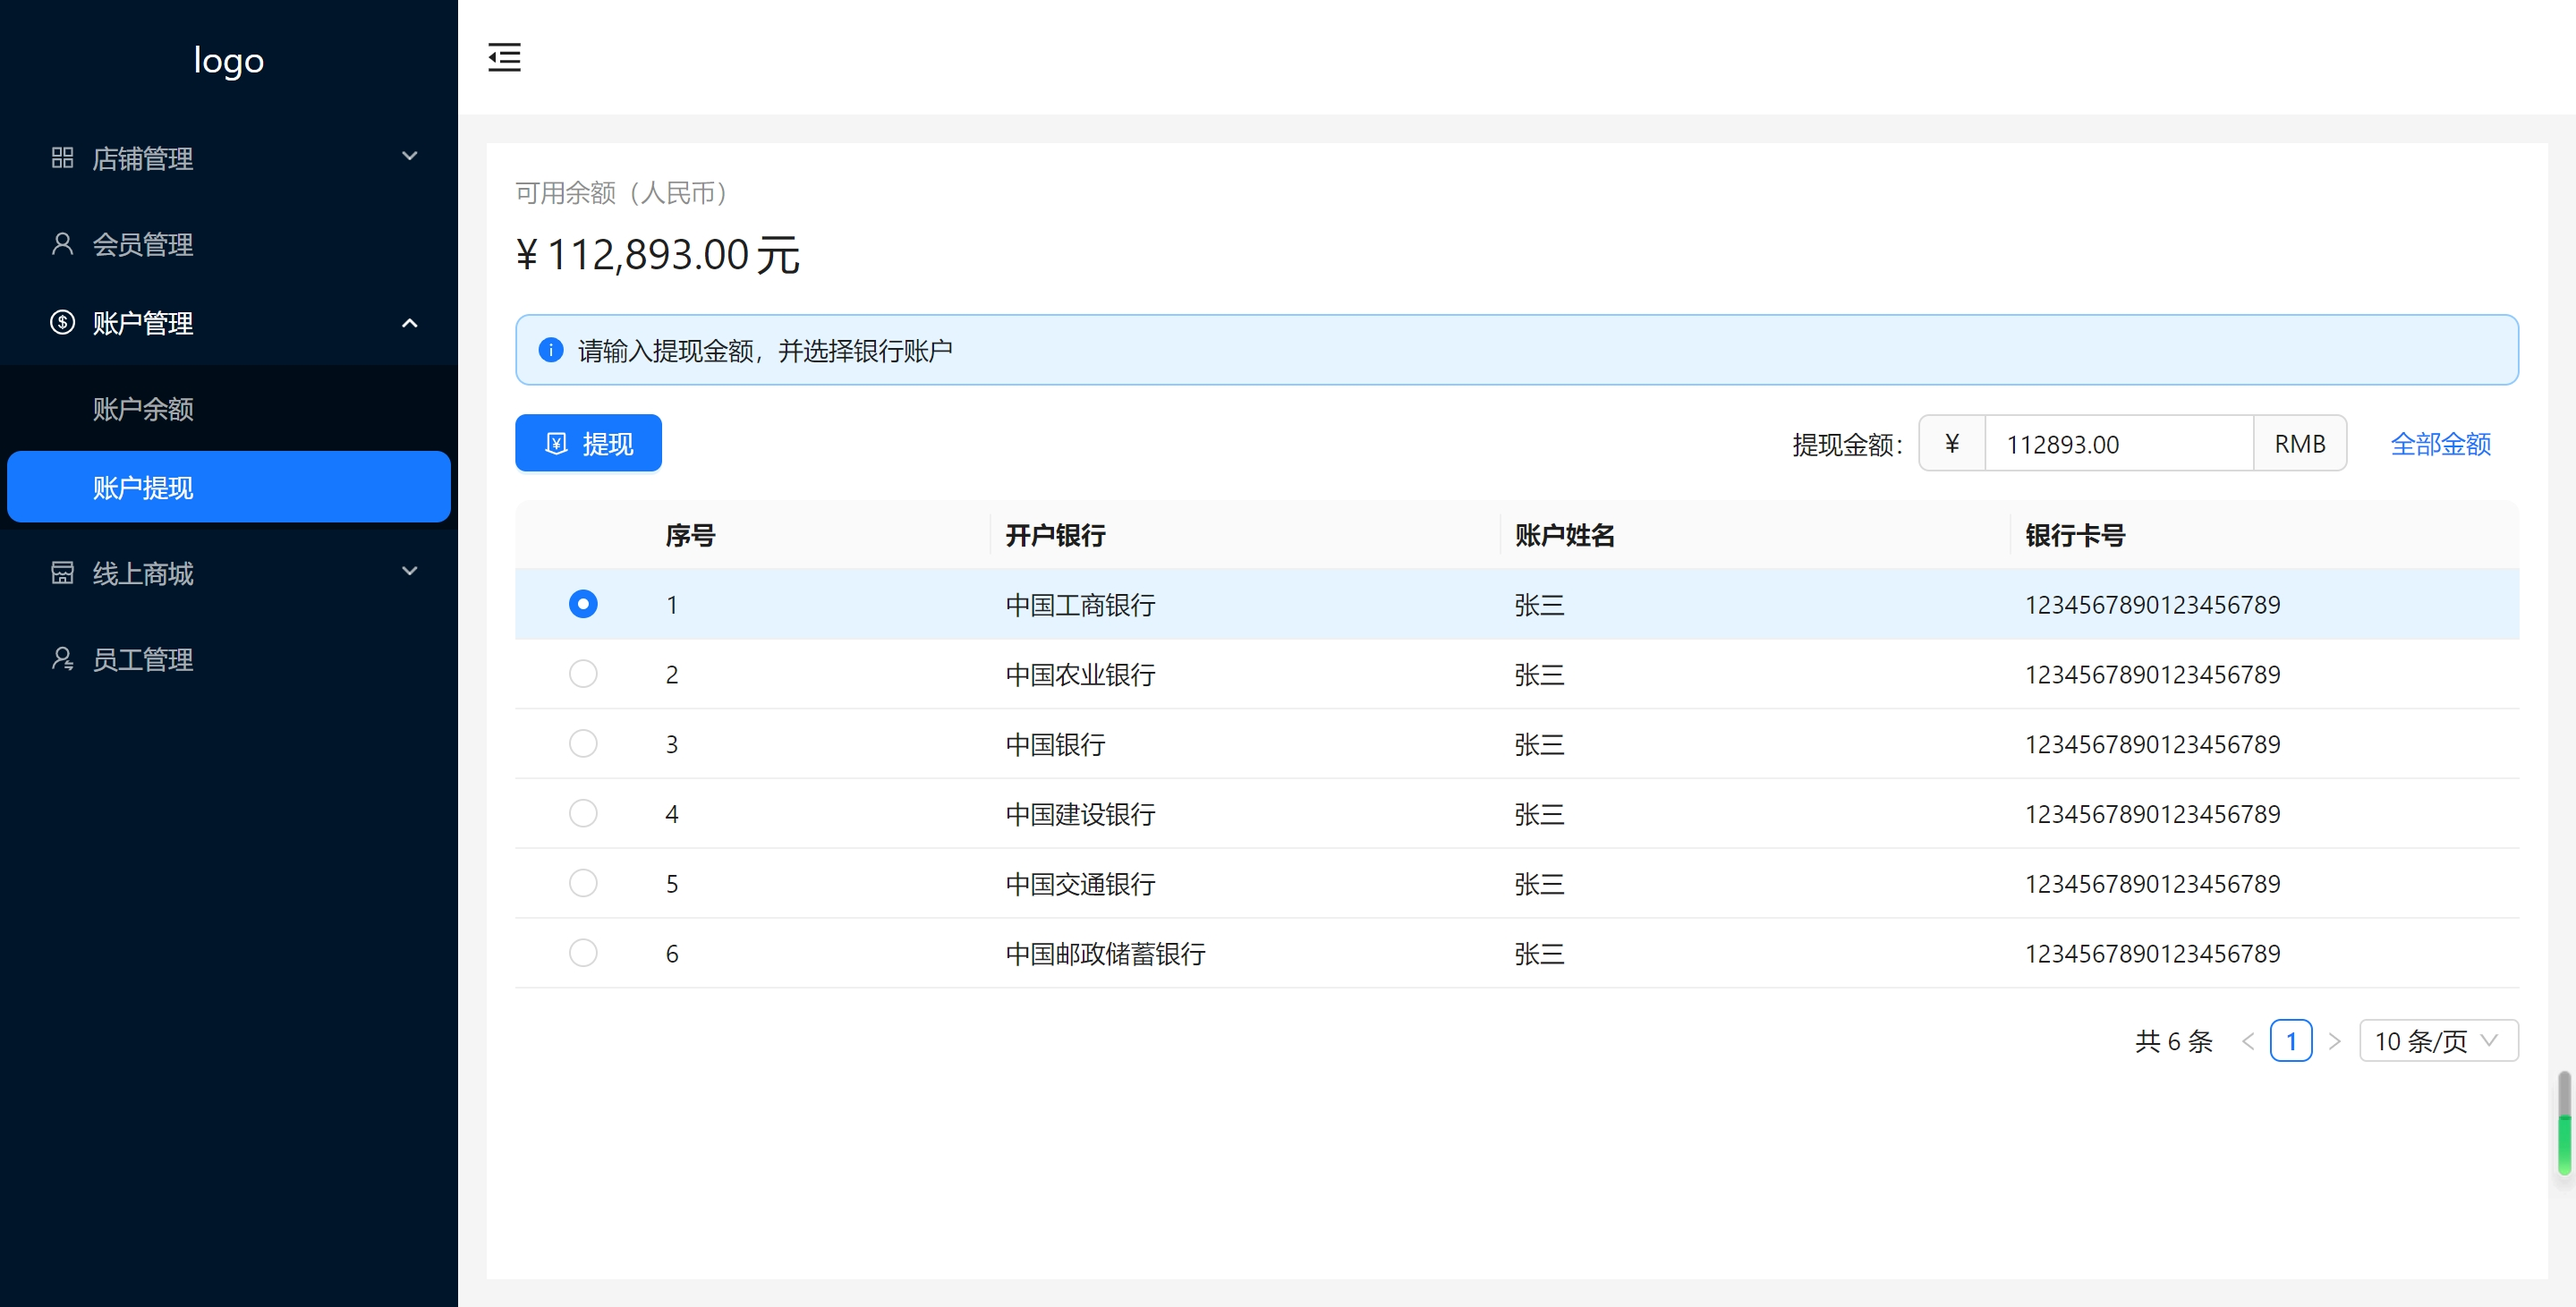
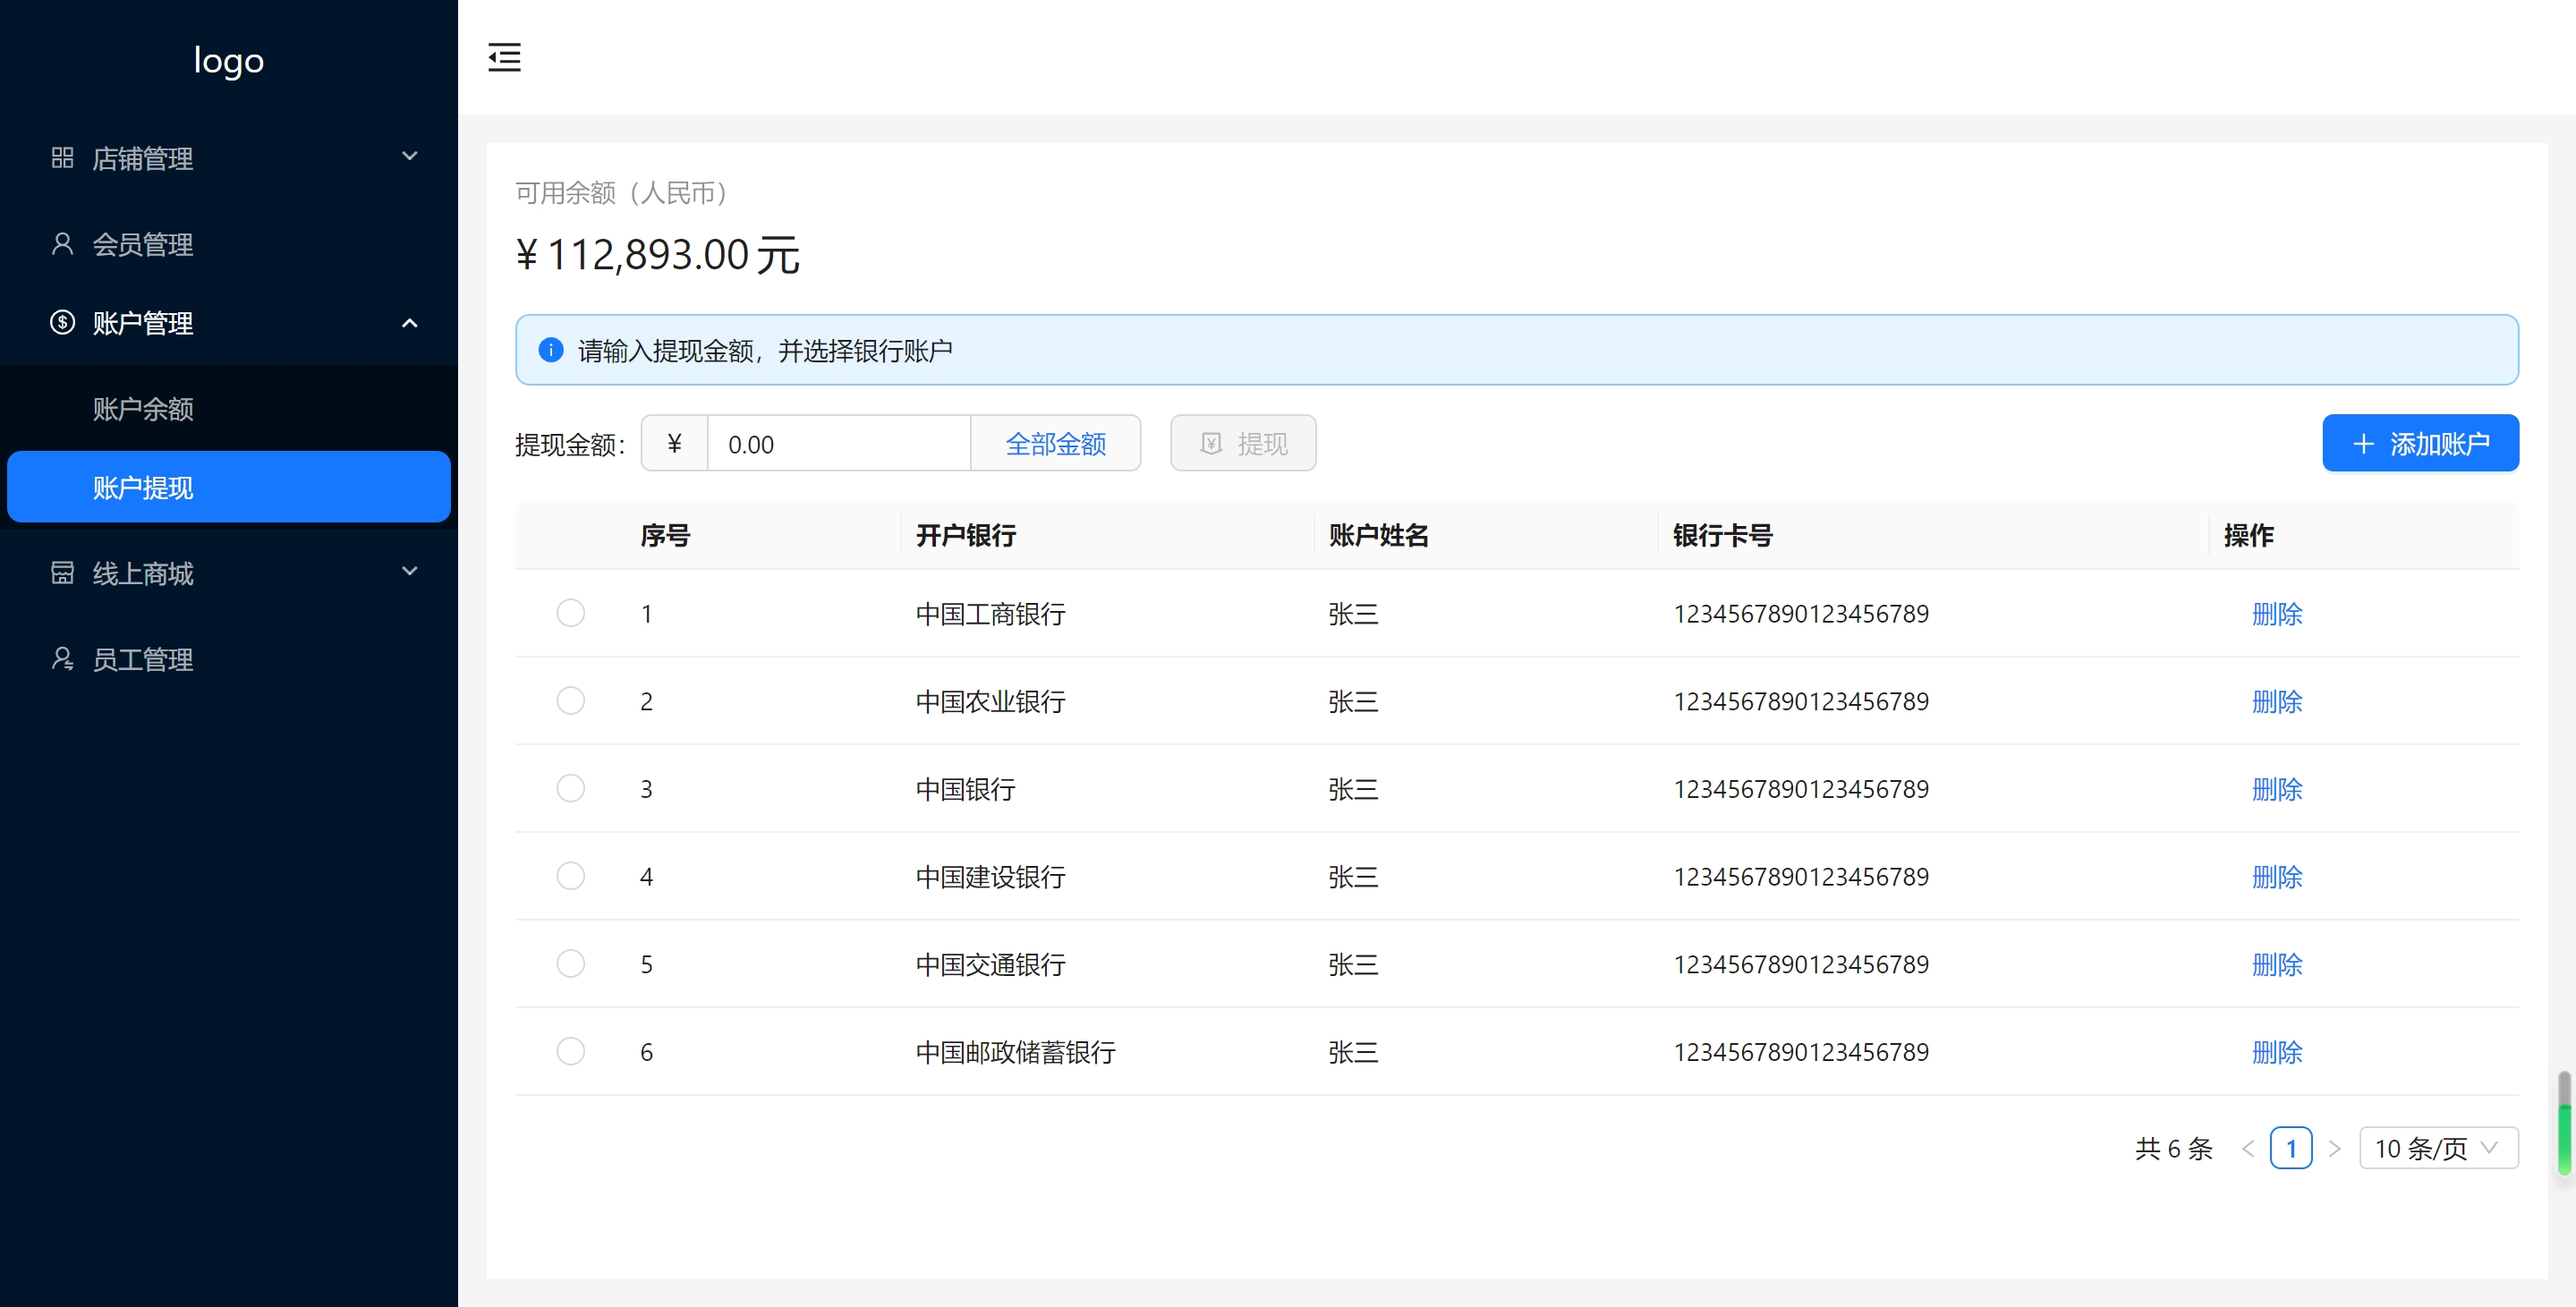
chore(*): 开发添加账户页面

diff --git a/business/src/views/account/withdrawe.vue b/business/src/views/account/withdrawe.vue
@@ -3,31 +3,45 @@
   <a-statistic title="可用余额（人民币）" :precision="2" prefix="¥" suffix="元" :value="totalMoney" class="statistic" />
   <a-alert message="请输入提现金额，并选择银行账户" type="info" show-icon class="alert" />
   <div class="handle">
-    <a-button type="primary" class="withdrawe-btn" :disabled="!(selectedIds.length && sum)" @click="onWithdrawe">
-      <template #icon>
-        <MoneyCollectOutlined />
-      </template>
-      提现
-    </a-button>
     <div class="sum-wrap">
       <label for="sum" class="label">提现金额：</label>
-      <a-input-number v-model:value="sum" :min="0.01" :max="totalMoney" :precision="2" class="sum-input">
+      <a-input-number v-model:value="sum" :min="0.01" :max="totalMoney" :precision="2" placeholder="请输入（元）"
+        class="sum-input">
         <template #addonBefore>
           <span>￥</span>
         </template>
         <template #addonAfter>
-          <span>RMB</span>
+          <a-button type="link" :disabled="!totalMoney" size="small" class="total-money-btn"
+            @click="sum = totalMoney">全部金额</a-button>
         </template>
       </a-input-number>
-      <a-button type="link" :disabled="!totalMoney" class="total-money-btn" @click="sum = totalMoney">全部金额</a-button>
+      <a-button class="withdrawe-btn" :disabled="!(selectedIds.length && sum)" @click="onWithdrawe">
+        <template #icon>
+          <MoneyCollectOutlined />
+        </template>
+        提现
+      </a-button>
     </div>
+    <a-button type="primary" class="add-btn" @click="onAdd">
+      <template #icon>
+        <PlusOutlined />
+      </template>
+      添加账户
+    </a-button>
   </div>
+
   <a-table :columns="columns" :dataSource="data"
     :row-selection="{ type: 'radio', selectedRowKeys: selectedIds, onChange: onSelectChange }" :pagination="false"
     size="small" :scroll="{ x: 1000, y: 360 }" :loading="tableLoading" :row-key="'id'">
-    <template #bodyCell="{ column, _, index }">
+    <template #bodyCell="{ column, record, index }">
       <template v-if="column.key === 'index'">
         {{ page.pageSize * (page.current - 1) + index + 1 }}
+      </template>
+      <template v-else-if="column.key === 'action'">
+        <a-popconfirm :title="`确认删除账户 ${record.name} 吗？`" ok-text="确定" cancel-text="取消"
+          @confirm="onConfirmDelete(record.id)" @cancel="onCancelDelete">
+          <a-button type="link">删除</a-button>
+        </a-popconfirm>
       </template>
     </template>
   </a-table>
@@ -36,18 +50,22 @@
     :show-total="total => `共 ${total} 条`" size="small" :disabled="tableLoading" class="pagination" @change="onChange" />
 
   <confirm-account v-if="visible" @cancel="onCancel" @confirm="onConfirm" />
+  <add-account v-if="addVisible" @cancel="onCancelAdd" @confirm="onConfirmAdd" />
 </template>
 
 <script setup lang="ts">
 import { defineAsyncComponent, onMounted, Ref, ref } from 'vue';
-import { MoneyCollectOutlined } from '@ant-design/icons-vue';
+import { MoneyCollectOutlined, PlusOutlined } from '@ant-design/icons-vue';
 import { IWithdrawe, IPage } from '@/models';
+import { message } from 'ant-design-vue';
 
 const confirmAccount = defineAsyncComponent(() => import('./components/confirmAccount.vue'));
+const addAccount = defineAsyncComponent(() => import('./components/addAccount.vue'));
 
 const totalMoney = ref(112893);
 const sum = ref(0);
-const visible = ref(false);;
+const visible = ref(false);
+const addVisible = ref(false);
 const selectedIds: Ref<number[]> = ref([]);
 
 const result = [
@@ -84,13 +102,20 @@ const columns = [
     title: '账户姓名',
     dataIndex: 'name',
     key: 'name',
-    width: 120,
+    width: 100,
   },
   {
     title: '银行卡号',
     dataIndex: 'account',
     key: 'account',
-    width: 120,
+    width: 160,
+  },
+  {
+    title: '操作',
+    key: 'action',
+    dataIndex: 'action',
+    width: 90,
+    fixed: 'right',
   },
 ];
 
@@ -122,6 +147,17 @@ const onSelectChange = (selectedRowKeys: number[]) => {
   selectedIds.value = selectedRowKeys;
 };
 
+const onConfirmDelete = (id: number): void => {
+  // 模拟删除操作，实际应从API删除数据
+  console.log('Deleting--id', id);
+  message.success('删除成功');
+  page.value.current = 1;
+  getList();
+}
+const onCancelDelete = (): void => {
+  message.info('您取消了删除');
+};
+
 const onWithdrawe = () => {
   visible.value = true;
 }
@@ -132,6 +168,17 @@ const onConfirm = () => {
   visible.value = false;
   selectedIds.value = [];
   sum.value = 0;
+}
+
+const onAdd = () => {
+  addVisible.value = true;
+}
+const onCancelAdd = () => {
+  addVisible.value = false;
+}
+const onConfirmAdd = () => {
+  addVisible.value = false;
+  getList();
 }
 </script>
 
@@ -163,11 +210,11 @@ const onConfirm = () => {
   }
 
   .sum-input {
-    width: 240px;
+    width: 280px;
   }
-}
 
-.total-money-btn {
-  margin-left: 8px;
+  .withdrawe-btn {
+    margin-left: 16px;
+  }
 }
 </style>

diff --git a/business/src/views/account/components/addAccount.vue b/business/src/views/account/components/addAccount.vue
@@ -1,0 +1,105 @@
+<template>
+    <a-modal v-model:open="isVisible" title="添加账户" :width="560" :body-style="{ paddingTop: '24px' }" @cancel="onCancel">
+        <a-form :model="form" :rules="rules" ref="formRef" autocomplete="off" :label-col="{ span: 4 }">
+            <a-form-item label="开户银行" name="bank">
+                <a-select v-model:value="form.bank" allowClear :options="options" placeholder="请选择开户银行"></a-select>
+            </a-form-item>
+            <a-form-item label="账户姓名" name="name">
+                <a-input v-model:value="form.name" :maxlength="6" allowClear placeholder="请输入账户姓名（2-6 个字符）" />
+            </a-form-item>
+            <a-form-item label="银行卡号" name="account">
+                <a-tooltip :trigger="['focus']" placement="bottomLeft" color="blue" overlay-class-name="tips">
+                    <template v-if="form.account" #title>{{ form.account }}</template>
+                    <a-input v-model:value="form.account" :maxlength="19" allowClear placeholder="请输入正确的银行卡号" />
+                </a-tooltip>
+            </a-form-item>
+        </a-form>
+        <template #footer>
+            <a-button key="back" @click="onCancel">取消</a-button>
+            <a-button key="submit" type="primary" :loading="loading" :disabled="disabled"
+                @click="onSubmit">提交</a-button>
+        </template>
+    </a-modal>
+</template>
+
+<script setup lang="ts">
+import { IAddAccount } from '@/models';
+import { message, SelectProps } from 'ant-design-vue';
+import { Rule } from 'ant-design-vue/es/form';
+import { ref, reactive, UnwrapRef, computed } from 'vue';
+
+const emits = defineEmits(['cancel', 'confirm']);
+
+const isVisible = ref(true);
+const form: UnwrapRef<IAddAccount> = reactive({
+    bank: 'ICBC',
+    name: '',
+    account: '',
+});
+const options = ref<SelectProps['options']>([
+    { value: 'ICBC', label: '中国工商银行' },
+    { value: 'ABC', label: '中国农业银行' },
+    { value: 'BOC', label: '中国银行' },
+    { value: 'CCB', label: '中国建设银行' },
+    { value: 'BOCOM', label: '交通银行' },
+    { value: 'PSBC', label: '中国邮政储蓄银行' },
+    { value: 'CMB', label: '招商银行' },
+    { value: 'PAIC', label: '平安银行' },
+]);
+const formRef = ref();
+const loading = ref(false);
+const disabled = computed((): boolean => {
+    const values = formRef.value?.getFieldsValue();
+    const bankDisabled = !values?.bank;
+    const nameDisabled = values?.name?.trim().length < 2;
+    const accountDisabled = !/^\d{16,19}$/.test(values?.account?.trim());
+    return bankDisabled || nameDisabled || accountDisabled;
+});
+
+const rules: Record<string, Rule[]> = {
+    bank: [
+        { required: true, message: '请选择银行', trigger: 'change' },
+    ],
+    name: [
+        { transform: (value: string) => value.trim() },
+        { whitespace: true, message: '不能只包含空格！', trigger: 'change' },
+        { required: true, message: '请输入账户姓名', trigger: 'change' },
+        { pattern: /^.{2,6}$/, message: '账户姓名应该 2-6 位！', trigger: 'blur' },
+    ],
+    account: [
+        { transform: (value: string) => value.trim() },
+        { whitespace: true, message: '不能只包含空格！', trigger: 'change' },
+        { required: true, message: '请输入银行卡号', trigger: 'change' },
+        { pattern: /^\d{16,19}$/, message: '请输入正确的银行卡号！', trigger: 'blur' },
+    ],
+};
+
+const onSubmit = async (): Promise<void> => {
+    loading.value = true;
+    try {
+        await formRef.value?.validate();
+        console.log('表单验证成功', form);
+        // 这里可以添加提交表单的逻辑
+        setTimeout(() => {
+            loading.value = false;
+            message.success('账户添加成功');
+            emits('confirm');
+        }, 2000);
+    } catch (error) {
+        console.log('表单验证失败', error);
+    }
+};
+
+const onCancel = (): void => {
+    emits('cancel');
+};
+</script>
+
+<style lang="scss">
+.tips {
+    letter-spacing: 2px;
+    font-size: 18px;
+    font-weight: 700;
+    min-width: fit-content;
+}
+</style>

diff --git a/business/src/views/account/components/confirmAccount.vue b/business/src/views/account/components/confirmAccount.vue
@@ -18,7 +18,7 @@
             </div>
             <div class="account-item">
                 <span class="key">银行卡号：</span>
-                <a-tooltip color="blue" title="1234567890123456789" placement="right" :overlay-class-name="'tips'">
+                <a-tooltip color="blue" title="1234567890123456789" placement="right" overlay-class-name="tips">
                     <span class="value">1234567890123456789</span>
                 </a-tooltip>
             </div>

diff --git a/business/src/models/account.ts b/business/src/models/account.ts
@@ -9,3 +9,9 @@ export interface IWithdrawe {
   name: string
   account: string
 }
+
+export interface IAddAccount {
+  bank: string
+  name: string
+  account: string
+}
